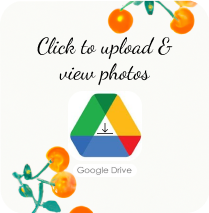
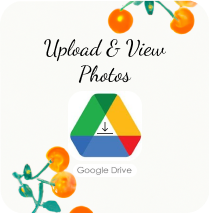
photo text update

Changed region(s): [[0.1722, 0.169, 0.8325, 0.3944], [0.488, 0.5915, 0.5167, 0.6197]]

diff --git a/guestInfo.html b/guestInfo.html
@@ -382,7 +382,7 @@
         photographer will be present to capture the special moment.
         <br /><br />We would love for everyone to share their photos from the
         rest of the day with us, below is a link to a google drive where
-        everyone can upload and share their pictures from across the day.
+        everyone can upload, view and share their pictures from across the day.
       </p>
       <a class="drive-img" href="https://photos.google.com/share/AF1QipPq7_MpQtpd8g1TfhiwjgUYwQclnbMW4Uz9kwTcR47ciEGuc74cotlRNb-L_xhq7Q?key=WnhWZHpXYlBaM1NYMExTUlEzRnlsaUEyWnpyUi1R">
         <img src="./images/gdrive.png" />
